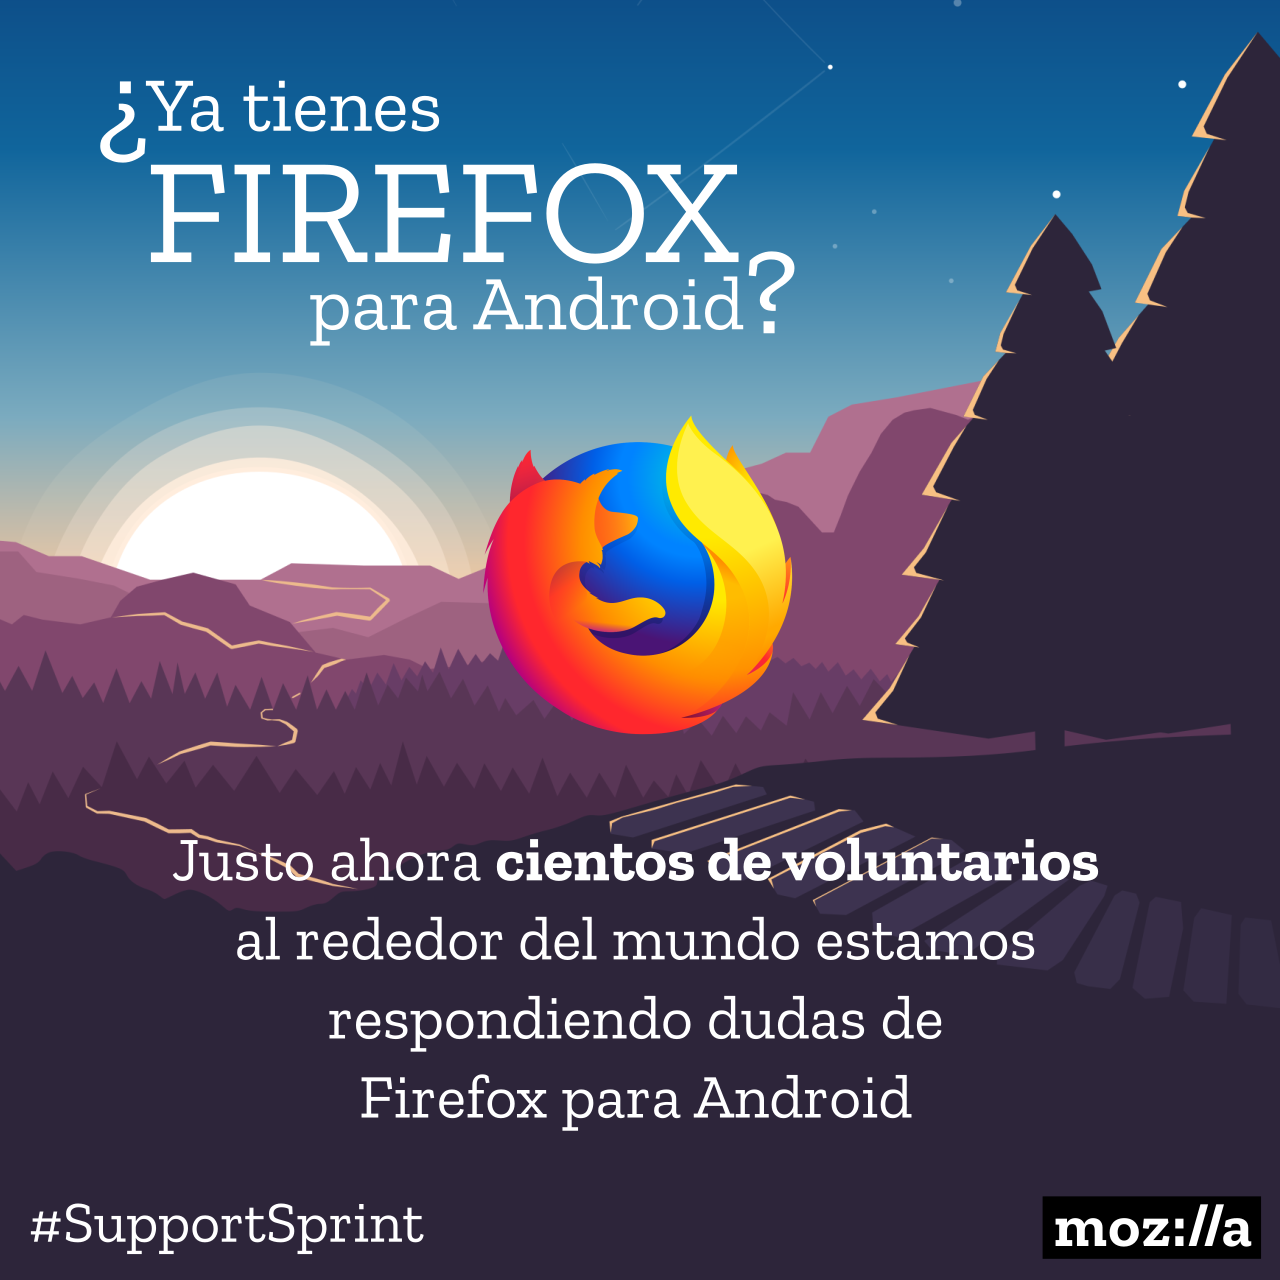
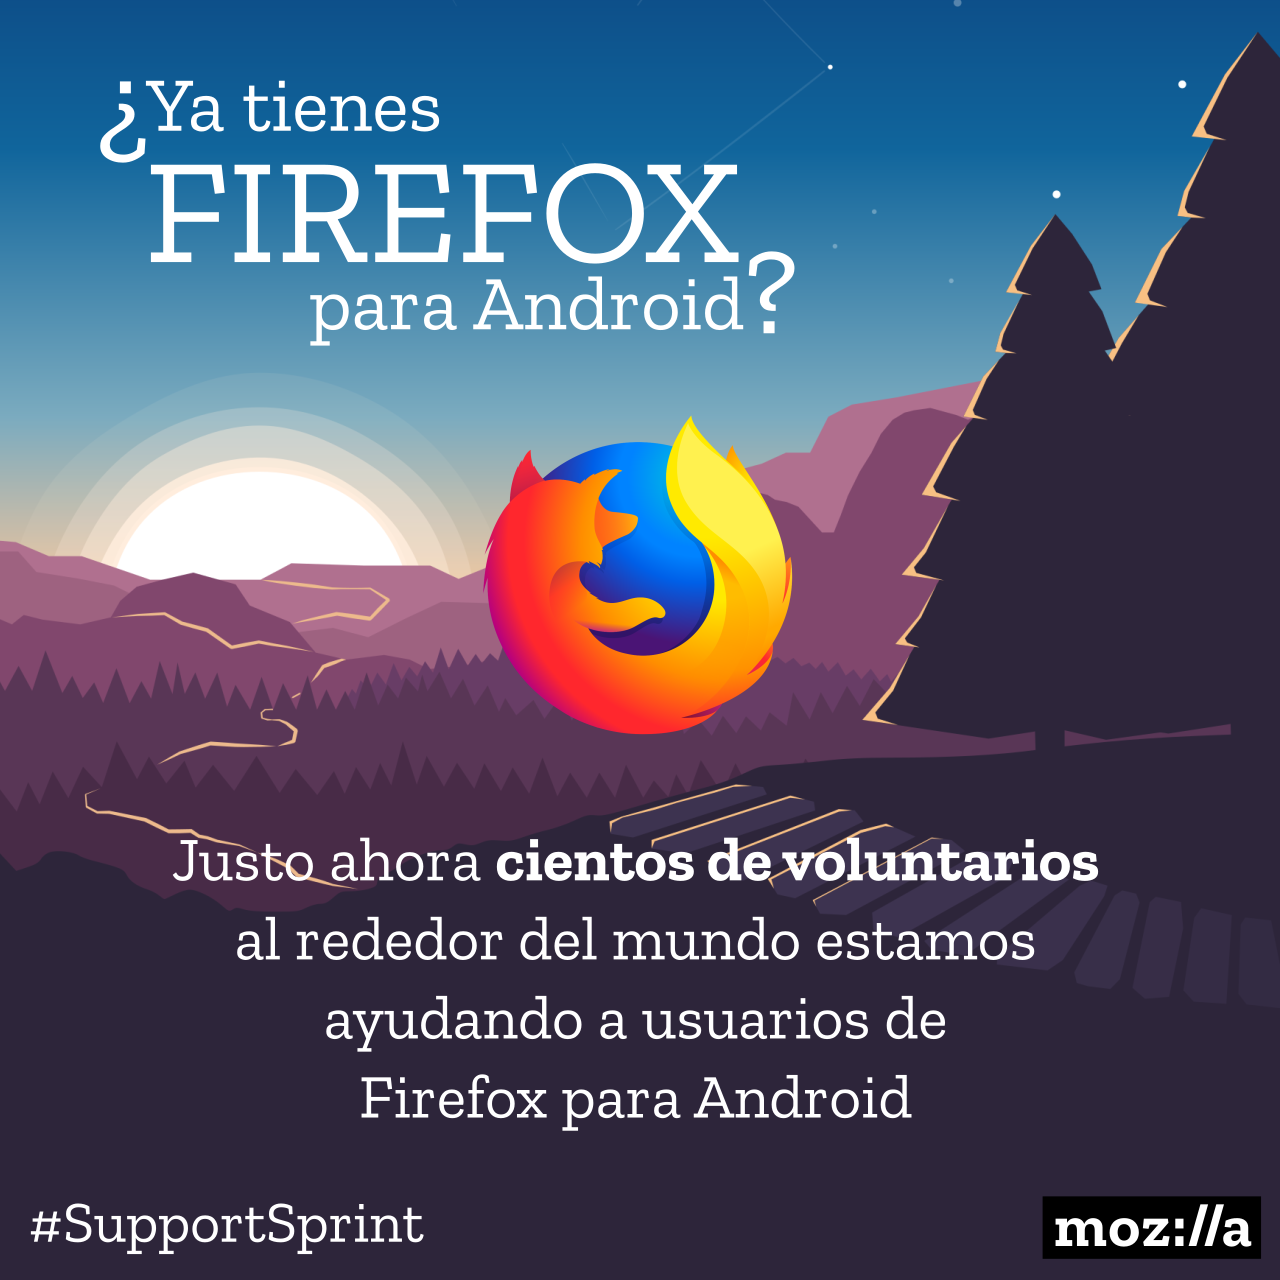
Actualización Publicación MZS

Changed region(s): [[0.25, 0.7812, 0.75, 0.8125]]

diff --git a/Producción/0_Vigente/Mozilla_Support_Sprint/FAQ.md b/Producción/0_Vigente/Mozilla_Support_Sprint/FAQ.md
@@ -18,5 +18,9 @@
 
 En Mozilla nos esforzamos por darte la mejor experiencia, si has tenido algún problema con la aplicación por favor contáctanos en http://www.mozilla-mexico.org/chat o visita el foro http://mzl.la/1PbRGTP donde estaremos felices de poder ayudarte. Si todo va bien nos ayudaría mucho tu respuesta con una revisión actualizada :)
 
+## En algunas ocaciones se cierra la app ala ora de navegar
+
+¡Lamentamos que tengas problemas con Firefox! Te invitamos a hacer una pregunta al respecto en https://support.mozilla.org/es/questions/new/mobile/fix-problems o si lo prefieres contactar directamente con la comunidad de Mozilla México en http://mozilla-mexico.org/chat donde estaremos felices de poder ayudarte.
+
 
 https://www.mozilla.org/en-US/firefox/feedback
